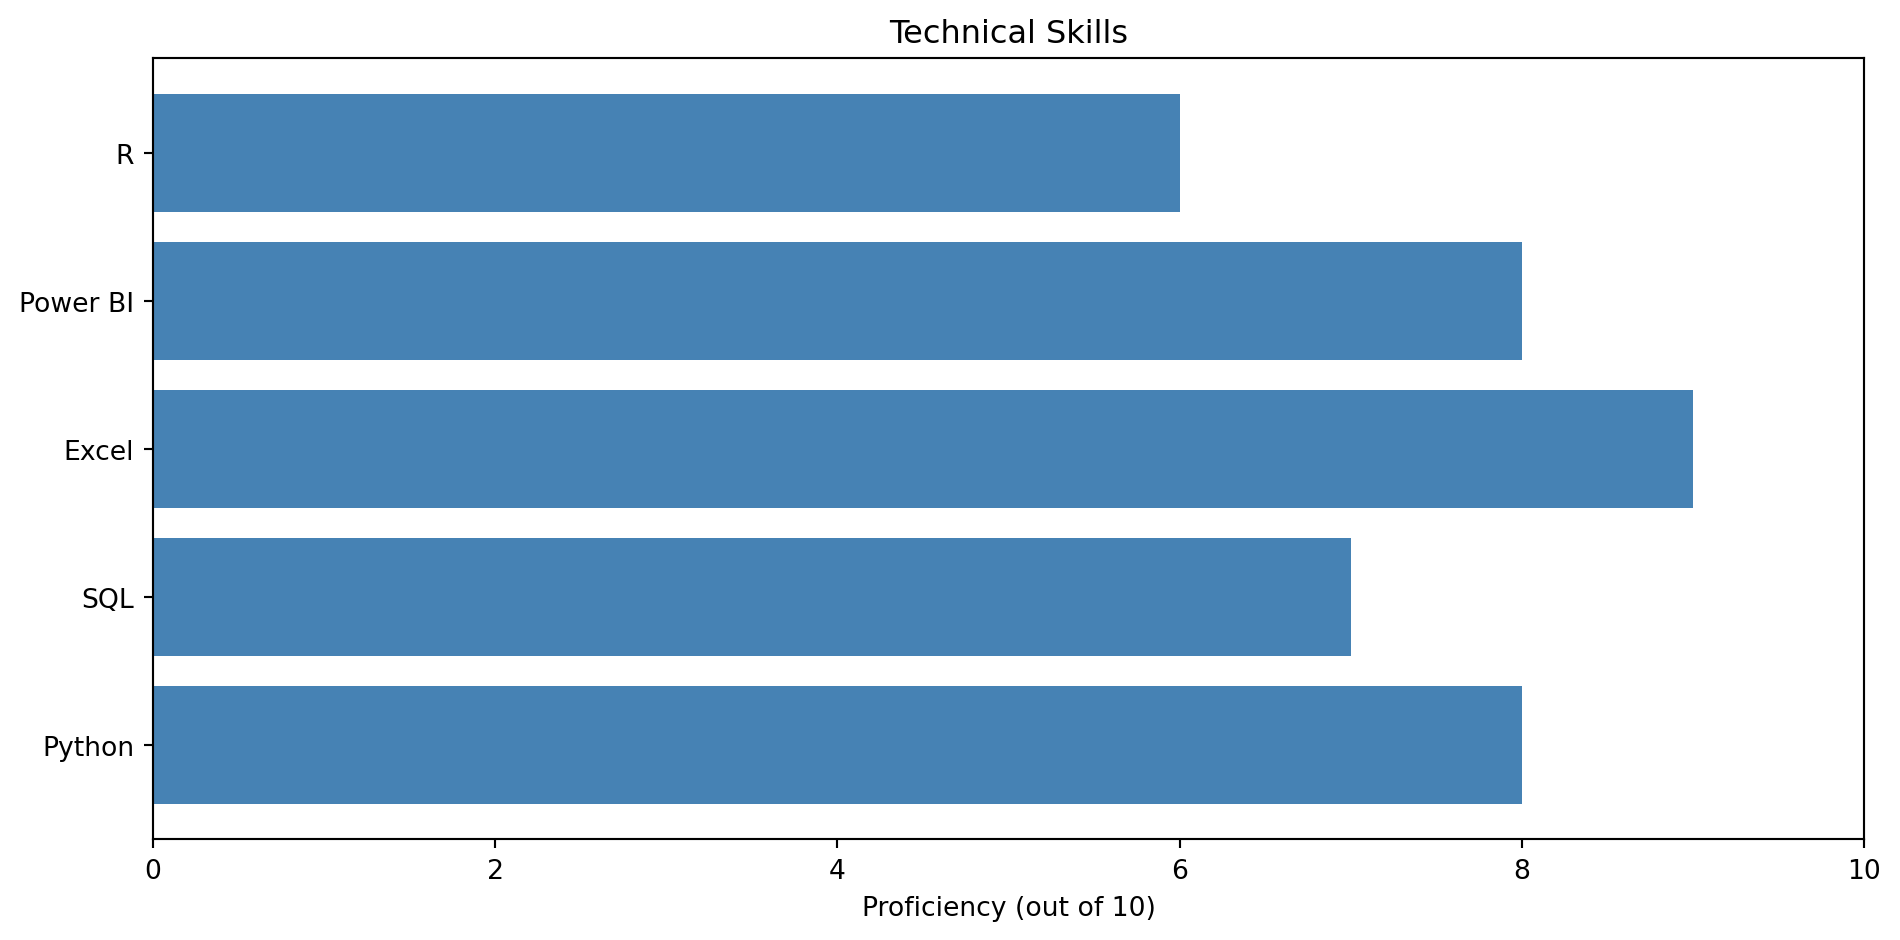
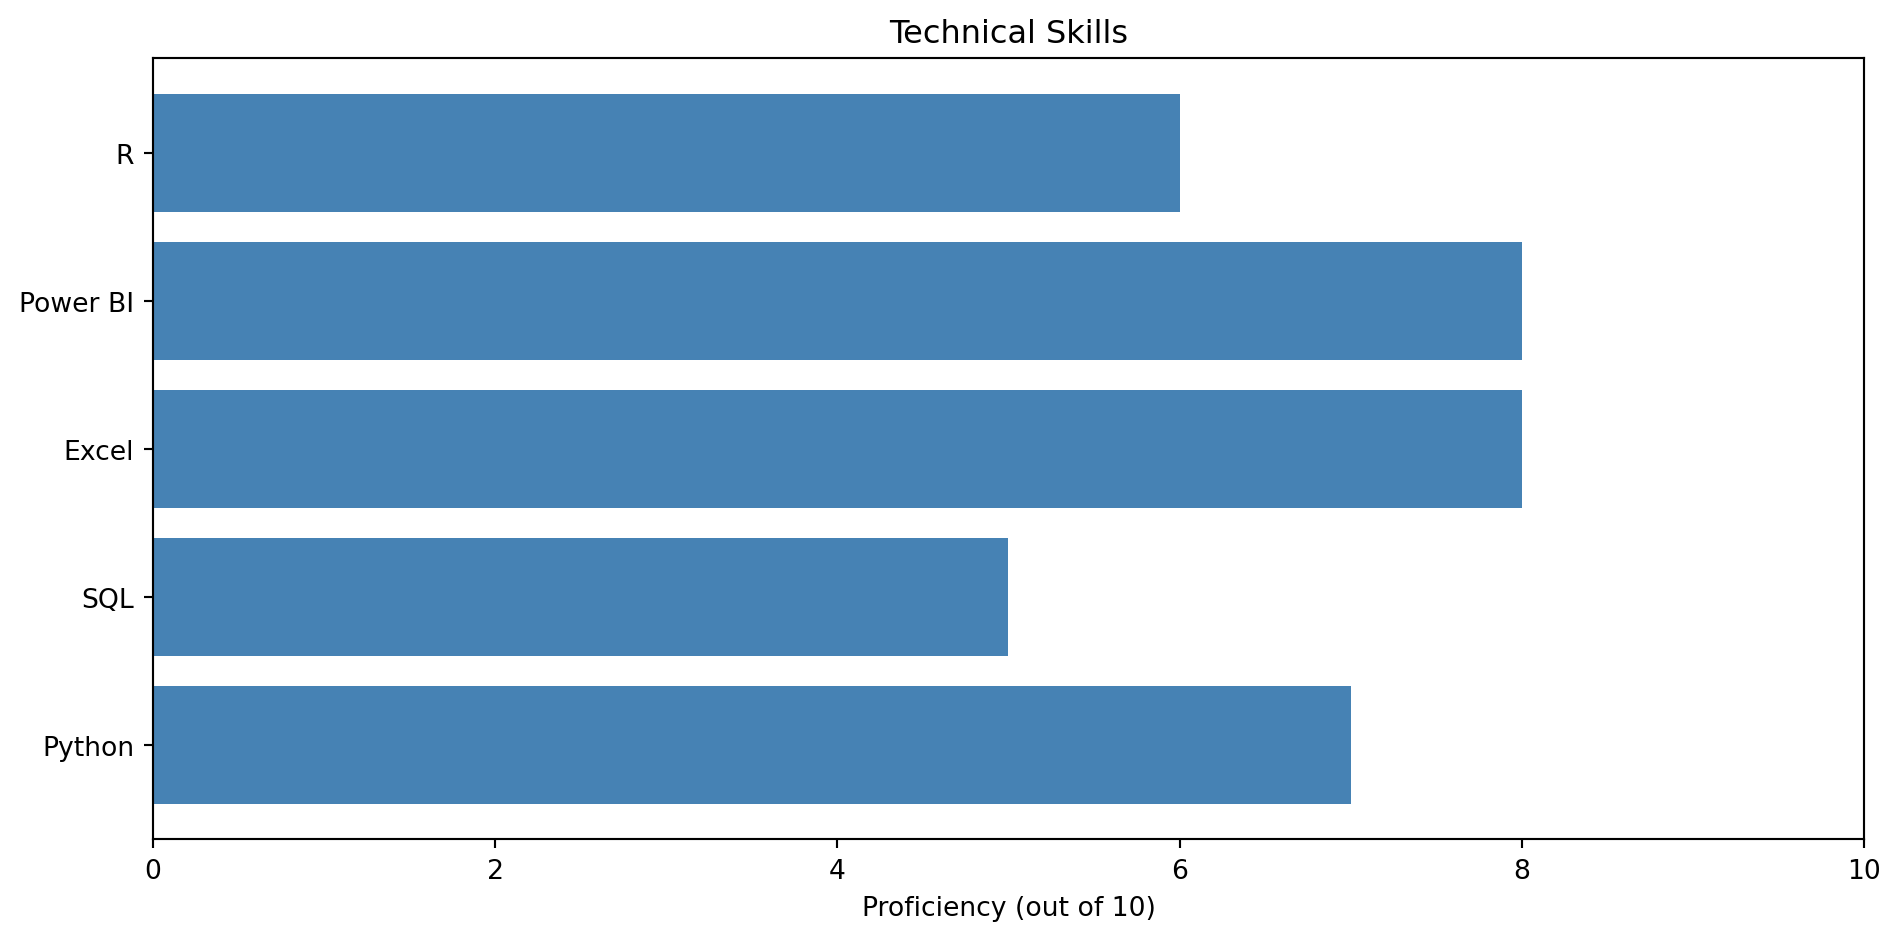
Some more changes

Changed region(s): [[0.5279, 0.5553, 0.7142, 0.7096], [0.7763, 0.4011, 0.9005, 0.5553], [0.6832, 0.7096, 0.8074, 0.8638]]

diff --git a/_site/about.html b/_site/about.html
@@ -140,7 +140,7 @@ ul.task-list li input[type="checkbox"] {
 
 
 <p>Education and Career timeline</p>
-<div id="59f21d7d" class="cell" data-execution_count="1">
+<div id="340cd26a" class="cell" data-execution_count="1">
 <div class="cell-output cell-output-display" data-execution_count="3">
 <div>
 
@@ -187,11 +187,14 @@ ul.task-list li input[type="checkbox"] {
 </div>
 <hr>
 <p>Languages Proficiency Level</p>
-<div id="e6b7ac19" class="cell" data-execution_count="2">
+<div id="382d64fb" class="cell" data-execution_count="2">
+<div class="cell-output cell-output-stdout">
+<pre><code>Scale 1–5, where 5 = fluent, 1 = beginner</code></pre>
+</div>
 <div class="cell-output cell-output-display">
 <div>
 <figure class="figure">
-<p><img src="about_files/figure-html/cell-3-output-1.png" width="469" height="483" class="figure-img"></p>
+<p><img src="about_files/figure-html/cell-3-output-2.png" width="700" height="449" class="figure-img"></p>
 </figure>
 </div>
 </div>

diff --git a/_site/index.html b/_site/index.html
@@ -7,6 +7,7 @@
 <meta name="viewport" content="width=device-width, initial-scale=1.0, user-scalable=yes">
 
 <meta name="author" content="Mishal Aboobackar Manalody">
+<meta name="dcterms.date" content="2025-10-13">
 
 <title>Welcome to My Website – Mishal Aboobackar Manalody</title>
 <style>
@@ -148,7 +149,7 @@ ul.task-list li input[type="checkbox"] {
     <div>
     <div class="quarto-title-meta-heading">Published</div>
     <div class="quarto-title-meta-contents">
-      <p class="date">Invalid Date</p>
+      <p class="date">October 13, 2025</p>
     </div>
   </div>
   
@@ -188,7 +189,7 @@ ul.task-list li input[type="checkbox"] {
 - [Email Me]- mishaaal@bu.edu</p>
 <hr>
 <p>Skills</p>
-<div id="15eb7500" class="cell" data-execution_count="1">
+<div id="1b81e278" class="cell" data-execution_count="1">
 <div class="cell-output cell-output-display">
 <div>
 <figure class="figure">
